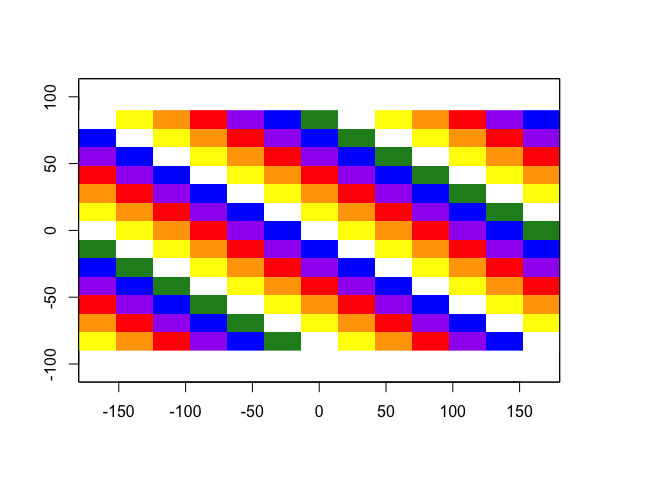
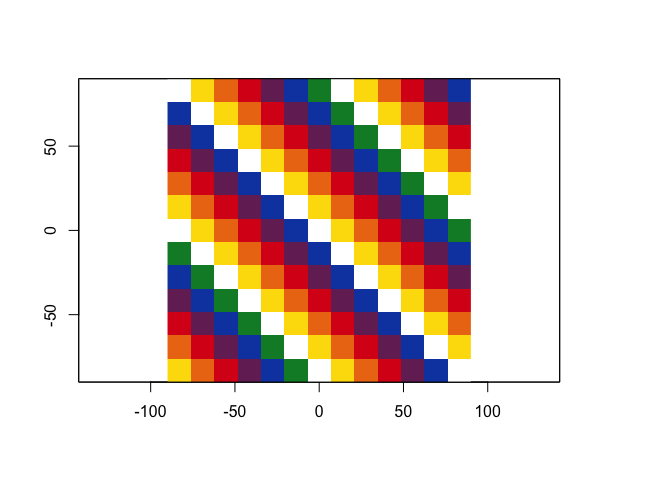
whipala cuadrada

diff --git a/README.md b/README.md
@@ -36,8 +36,8 @@ whipala()
 
     #> class      : RasterLayer 
     #> dimensions : 7, 7, 49  (nrow, ncol, ncell)
-    #> resolution : 51.42857, 25.71429  (x, y)
-    #> extent     : -180, 180, -90, 90  (xmin, xmax, ymin, ymax)
+    #> resolution : 25.71429, 25.71429  (x, y)
+    #> extent     : -90, 90, -90, 90  (xmin, xmax, ymin, ymax)
     #> crs        : +proj=longlat +datum=WGS84 +no_defs 
     #> source     : memory
     #> names      : layer 
@@ -48,8 +48,8 @@ whipala()
 
     #> class      : RasterLayer 
     #> dimensions : 13, 13, 169  (nrow, ncol, ncell)
-    #> resolution : 27.69231, 13.84615  (x, y)
-    #> extent     : -180, 180, -90, 90  (xmin, xmax, ymin, ymax)
+    #> resolution : 13.84615, 13.84615  (x, y)
+    #> extent     : -90, 90, -90, 90  (xmin, xmax, ymin, ymax)
     #> crs        : +proj=longlat +datum=WGS84 +no_defs 
     #> source     : memory
     #> names      : layer 
@@ -57,9 +57,9 @@ whipala()
 
 ``` r
 br <- raster::getData("alt", country = "BRA")
-#> Warning in showSRID(uprojargs, format = "PROJ", multiline = "NO"): Discarded
-#> datum Unknown based on WGS84 ellipsoid in CRS definition
-br <- raster::aggregate(br, 150)
+#> Warning in showSRID(uprojargs, format = "PROJ", multiline = "NO", prefer_proj =
+#> prefer_proj): Discarded datum Unknown based on WGS84 ellipsoid in CRS definition
+br <- raster::aggregate(br, 200)
 whipala_map(br)
 ```
 
@@ -68,8 +68,8 @@ whipala_map(br)
 La Whipala es propiedad de la nación originaria, es decir de los
 Qhishwa-Aymaras, Guaraníes y de todo el pueblo
 
-Viva Bolivia, viva la minga en Colombia, no al genocidio de los pueblos
-indígenas en toda Sudamérica.
+Viva Bolivia, viva la Minga en Colombia, no al Marco Temporal en Brasil
+y no al genocidio de los pueblos indígenas en toda Sudamérica.
 
 ## W(H)IP
 
@@ -77,8 +77,8 @@ indígenas en toda Sudamérica.
     cambiar la manera de plotar.
   - [x] Crear rasters em vez de grids
   - [x] Crear mapas con la whipala \#goals
-  - [ ] Mejorar descripciones y fuentes
-  - [ ] Mejorar el violeta
-  - [ ] Transformar colores a hex codes para transformar en paleta
+  - [x] Mejorar el violeta
+  - [x] Transformar colores a hex codes para transformar en paleta
     (whipalette :P)
+  - [ ] Mejorar descripciones y fuentes
   - [ ] Crear el logo del paquete
